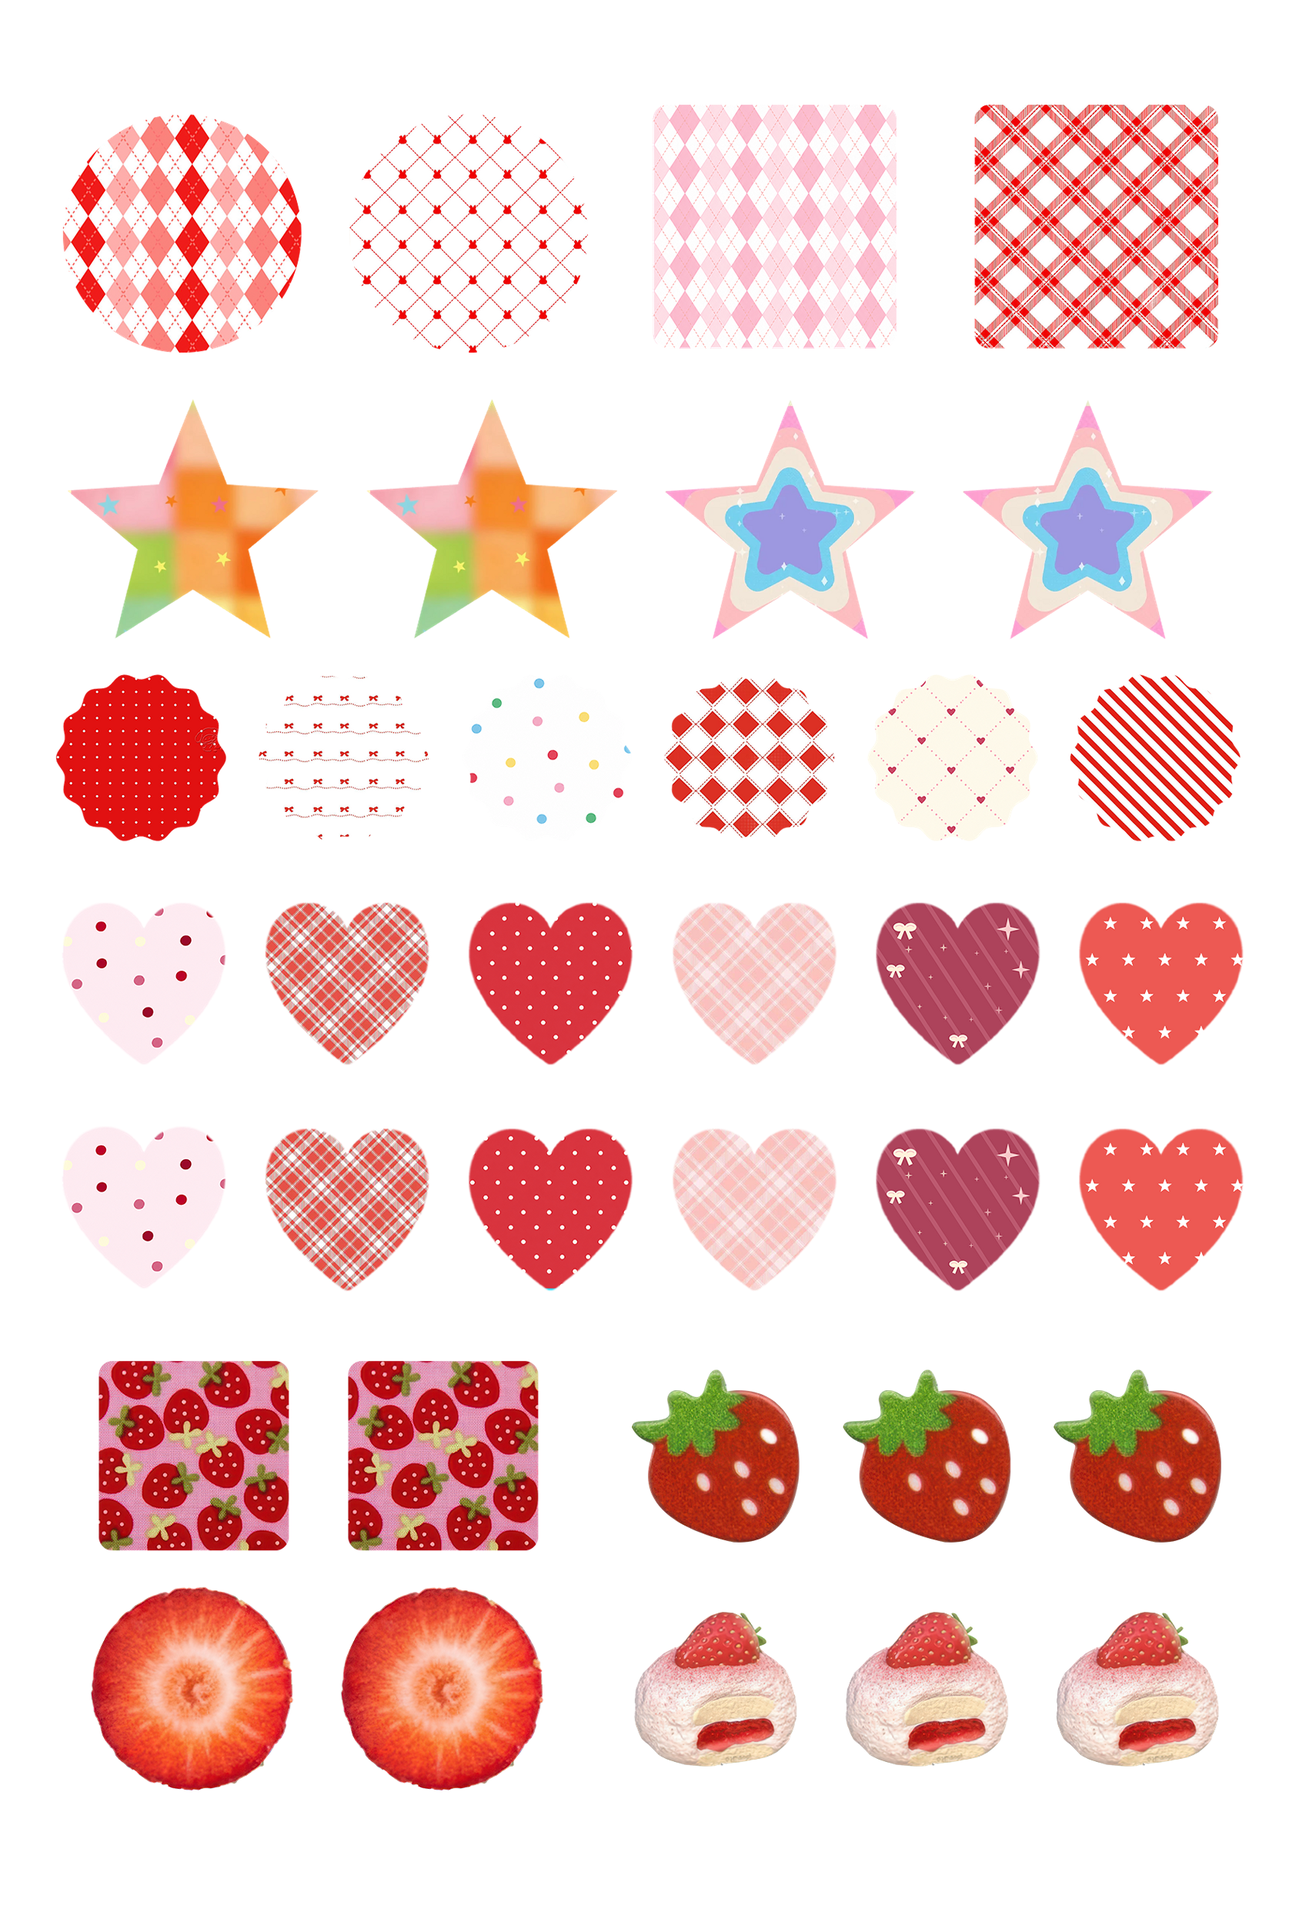
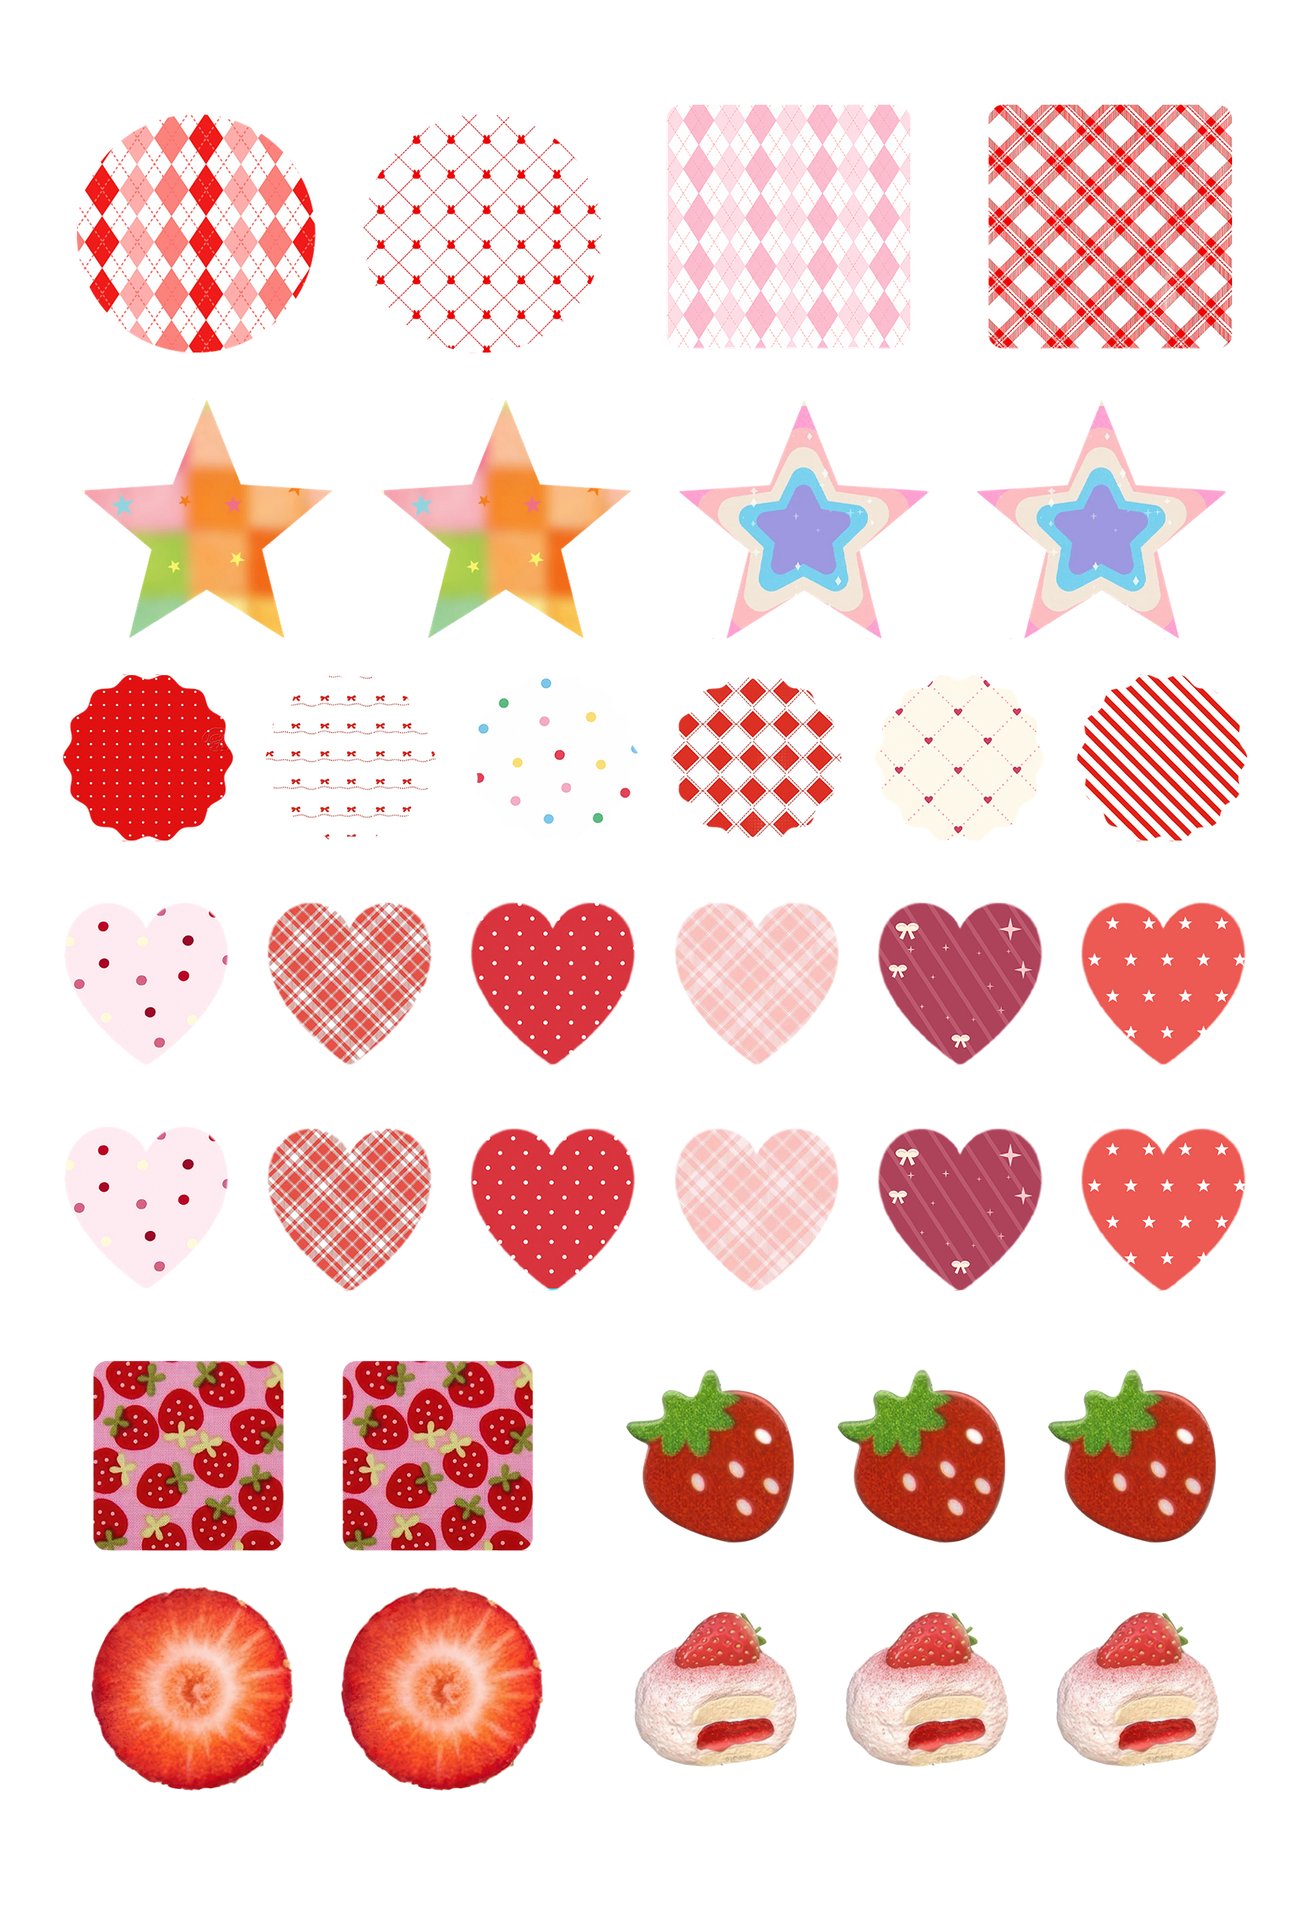
fix: 校准草莓模板照片框与图案位置
按底图透明轮廓调整照片框和选框，校准行居中，同步 Web 和 vagaga 内嵌模板并补充像素级回归测试。

diff --git a/web/src/services/heartStarStrawberry.test.ts b/web/src/services/heartStarStrawberry.test.ts
@@ -1,4 +1,5 @@
 import { readFileSync } from 'node:fs'
+import { inflateSync } from 'node:zlib'
 import { describe, expect, it } from 'vitest'
 import source from '../../public/embedded/heart-star/strawberry-template.js?raw'
 import backgroundSource from '../../public/embedded/heart-star/slot-background.js?raw'
@@ -13,10 +14,49 @@ function feature() {
   return scope.HeartStarStrawberry
 }
 
+function sheetBytes() {
+  const api = feature()
+  return readFileSync(new URL('../../public/embedded/heart-star/' + api.source.split('?')[0].replace('./', ''), import.meta.url))
+}
+
+// Decodes the base sheet as exported: 8-bit RGBA without interlacing.
+function sheetAlpha(bytes: Buffer) {
+  expect([bytes[24], bytes[25], bytes[28]]).toEqual([8, 6, 0])
+  const width = bytes.readUInt32BE(16), height = bytes.readUInt32BE(20)
+  const chunks: Buffer[] = []
+  for (let position = 8; position < bytes.length; position += 12 + bytes.readUInt32BE(position))
+    if (bytes.toString('ascii', position + 4, position + 8) === 'IDAT') chunks.push(bytes.subarray(position + 8, position + 8 + bytes.readUInt32BE(position)))
+  const raw = inflateSync(Buffer.concat(chunks)), stride = width * 4, pixels = Buffer.alloc(height * stride)
+  for (let y = 0; y < height; y++) {
+    const filter = raw[y * (stride + 1)]
+    for (let x = 0; x < stride; x++) {
+      const at = y * stride + x, a = x >= 4 ? pixels[at - 4] : 0, b = y ? pixels[at - stride] : 0
+      const c = x >= 4 && y ? pixels[at - stride - 4] : 0
+      let value = raw[y * (stride + 1) + 1 + x]
+      if (filter === 1) value += a
+      else if (filter === 2) value += b
+      else if (filter === 3) value += (a + b) >> 1
+      else if (filter === 4) {
+        const p = a + b - c, pa = Math.abs(p - a), pb = Math.abs(p - b), pc = Math.abs(p - c)
+        value += pa <= pb && pa <= pc ? a : pb <= pc ? b : c
+      }
+      pixels[at] = value & 255
+    }
+  }
+  return { width, height, alpha: (x: number, y: number) => pixels[y * stride + x * 4 + 3] }
+}
+
+// The sheet is decoded once per run; two tests read its pixels.
+let decoded: ReturnType<typeof sheetAlpha> | undefined
+function baseSheet() {
+  decoded ??= sheetAlpha(sheetBytes())
+  return decoded
+}
+
 describe('strawberry template', () => {
   it('loads the full-resolution PNG with 36 non-overlapping artwork and photo positions', () => {
     const api = feature(), cfg = api.build()
-    const bytes = readFileSync(new URL('../../public/embedded/heart-star/' + api.source.split('?')[0].replace('./', ''), import.meta.url))
+    const bytes = sheetBytes()
     expect([bytes.readUInt32BE(16), bytes.readUInt32BE(20)]).toEqual([cfg.w, cfg.h])
     expect([cfg.w, cfg.h, cfg.widthMm, cfg.heightMm]).toEqual([1701, 2480, 144, 210])
     expect(cfg.slots).toHaveLength(36)
@@ -56,7 +96,9 @@ describe('strawberry template', () => {
     const photo = { width: 100, height: 200 }, calls: any[] = [], area = cfg.slots[4].photoArea
     states[4] = { size: .62, dx: 10, dy: -5 }
     api.drawFittedPhoto({ drawImage: (...args: any[]) => calls.push(args) }, cfg, {}, states, 4, photo)
-    expect(calls[0].slice(1)).toEqual([area.x + 10 - area.h / 4, area.y - 5 - area.h / 2, area.h / 2, area.h])
+    // A 100 x 200 photo is limited by the area height: it becomes half as wide as the area is tall.
+    expect(calls[0].slice(1)).toEqual([expect.closeTo(area.x + 10 - area.h / 4), expect.closeTo(area.y - 5 - area.h / 2),
+      expect.closeTo(area.h / 2), expect.closeTo(area.h)])
   })
 
   it('centers every row with more than 5 mm on each side and keeps photo frames inside their artwork', () => {
@@ -75,6 +117,44 @@ describe('strawberry template', () => {
         expect(photo.x - photo.w / 2).toBeGreaterThanOrEqual(artwork.x)
         expect(photo.x + photo.w / 2).toBeLessThanOrEqual(artwork.x + artwork.w)
       }
+    }
+  })
+
+  it('keeps every photo frame inside its own artwork and centred on it, measured on the base image', () => {
+    const cfg = feature().build(), { width, height, alpha } = baseSheet()
+    // true when every pixel the rectangle touches is painted on the sheet
+    const painted = (left: number, top: number, right: number, bottom: number) => {
+      for (let y = Math.floor(top + 1e-9); y < Math.ceil(bottom - 1e-9); y++)
+        for (let x = Math.floor(left + 1e-9); x < Math.ceil(right - 1e-9); x++)
+          if (x < 0 || y < 0 || x >= width || y >= height || alpha(x, y) < 128) return false
+      return true
+    }
+    cfg.slots.forEach((slot: any, i: number) => {
+      const artwork = cfg.placements[i], photo = slot.photoArea
+      // Centre of area of the motif as it is actually painted on the sheet.
+      let sumX = 0, sumY = 0, count = 0
+      for (let y = Math.floor(artwork.y - 6); y < Math.ceil(artwork.y + artwork.h + 6); y++)
+        for (let x = Math.floor(artwork.x - 6); x < Math.ceil(artwork.x + artwork.w + 6); x++)
+          if (alpha(x, y) >= 128) { sumX += x + .5; sumY += y + .5; count++ }
+      expect(count, `slot ${i} artwork`).toBeGreaterThan(1000)
+      expect(Math.abs(photo.x - sumX / count), `slot ${i} horizontal centre`).toBeLessThanOrEqual(1.5)
+      expect(Math.abs(photo.y - sumY / count), `slot ${i} vertical centre`).toBeLessThanOrEqual(1.5)
+      // The editor draws a 4 px dashed selection frame 6% larger than the photo area.
+      // The dashed line, half its stroke width included, must stay on the artwork.
+      expect(painted(photo.x - photo.w * .53 - 2, photo.y - photo.h * .53 - 2, photo.x + photo.w * .53 + 2, photo.y + photo.h * .53 + 2), `slot ${i} frame`).toBe(true)
+    })
+  })
+
+  it('centres every row of the base image on the sheet', () => {
+    const cfg = feature().build(), { width, alpha } = baseSheet()
+    for (let row = 0; row < 7; row++) {
+      const boxes = cfg.placements.filter((_: any, i: number) => cfg.slots[i].row === row)
+      const top = Math.floor(Math.min(...boxes.map((box: any) => box.y)) - 6), bottom = Math.ceil(Math.max(...boxes.map((box: any) => box.y + box.h)) + 6)
+      let left = width, right = -1
+      for (let y = top; y < bottom; y++) for (let x = 0; x < width; x++) if (alpha(x, y) >= 128) { left = Math.min(left, x); right = Math.max(right, x) }
+      left = left as number; right = right as number
+      expect(Math.abs(left - (width - 1 - right)), `row ${row + 1} margins`).toBeLessThanOrEqual(1)
+      expect(left / width * cfg.widthMm, `row ${row + 1} margin`).toBeGreaterThan(5)
     }
   })
 

diff --git a/vagaga/public/embedded/heart-star/strawberry-template.js b/vagaga/public/embedded/heart-star/strawberry-template.js
@@ -3,23 +3,26 @@
 (() => {
   'use strict';
   const name = '草莓.png';
-  const source = './assets/strawberry-template.png?v=5';
+  const source = './assets/strawberry-template.png?v=6';
   function build() {
     // Each entry: artwork [left, top, width, height], photo [cx, cy, width, height].
     // Centers use the filled artwork silhouette, rounded to half a pixel.
     // This keeps hearts above their pointed tips and excludes texture holes.
+    // Sizes are the largest that keep the editor's dashed selection frame (6% larger
+    // than the photo area, stroke included) on the painted motif;
+    // heartStarStrawberry.test.ts checks both against the base image.
     const rows = [
       [
-        [[65, 91, 326, 326], [228, 254, 216, 232]],
-        [[457, 91, 326, 326], [620, 254, 216, 232]],
+        [[65, 91, 326, 326], [228, 254, 205, 219.5]],
+        [[457, 91, 326, 326], [620, 254, 205, 219.5]],
         [[872, 78, 333, 333], [1038.5, 244.5, 216, 232]],
         [[1312, 78, 333, 333], [1478.5, 244.5, 216, 232]],
       ],
       [
-        [[71, 480, 344, 330], [242.5, 661.5, 136, 144]],
-        [[480, 480, 344, 330], [651.5, 661.5, 136, 144]],
-        [[888, 481, 344, 329], [1059.5, 662.5, 136, 144]],
-        [[1295, 481, 344, 329], [1466.5, 662.5, 136, 144]],
+        [[71, 480, 344, 330], [242.5, 661.5, 109.5, 115.5]],
+        [[480, 480, 344, 330], [651.5, 661.5, 109.5, 115.5]],
+        [[888, 481, 344, 329], [1059.5, 662.5, 109.5, 115.5]],
+        [[1295, 481, 344, 329], [1466.5, 662.5, 109.5, 115.5]],
       ],
       [
         [[55, 856, 233, 229], [172, 971, 126, 134]],
@@ -30,20 +33,20 @@
         [[1442, 856, 234, 229], [1559, 971, 126, 134]],
       ],
       [
-        [[63, 1169, 225, 225], [176, 1264.5, 126, 134]],
-        [[341, 1169, 226, 225], [454, 1264.5, 126, 134]],
-        [[619, 1169, 226, 225], [732, 1264.5, 126, 134]],
-        [[898, 1169, 226, 225], [1011, 1264.5, 126, 134]],
-        [[1176, 1169, 226, 225], [1289, 1264.5, 126, 134]],
-        [[1454, 1169, 226, 225], [1567, 1264.5, 126, 134]],
+        [[63, 1169, 225, 225], [176, 1264.5, 103.5, 110.5]],
+        [[341, 1169, 226, 225], [454, 1264.5, 103.5, 110.5]],
+        [[619, 1169, 226, 225], [732, 1264.5, 103.5, 110.5]],
+        [[898, 1169, 226, 225], [1011, 1264.5, 103.5, 110.5]],
+        [[1176, 1169, 226, 225], [1289, 1264.5, 103.5, 110.5]],
+        [[1454, 1169, 226, 225], [1567, 1264.5, 103.5, 110.5]],
       ],
       [
-        [[63, 1478, 225, 224], [176, 1573.5, 126, 134]],
-        [[341, 1478, 226, 224], [454, 1573.5, 126, 134]],
-        [[619, 1478, 226, 224], [732, 1573.5, 126, 134]],
-        [[898, 1478, 226, 224], [1011, 1573.5, 126, 134]],
-        [[1176, 1478, 226, 224], [1289, 1573.5, 126, 134]],
-        [[1454, 1478, 226, 224], [1567, 1573.5, 126, 134]],
+        [[63, 1478, 225, 224], [176.5, 1571, 103.5, 110.5]],
+        [[341, 1478, 226, 224], [454, 1573.5, 103.5, 110.5]],
+        [[619, 1478, 226, 224], [732, 1573.5, 103.5, 110.5]],
+        [[898, 1478, 226, 224], [1011, 1573.5, 103.5, 110.5]],
+        [[1176, 1478, 226, 224], [1289, 1573.5, 103.5, 110.5]],
+        [[1454, 1478, 226, 224], [1567, 1573.5, 103.5, 110.5]],
       ],
       [
         [[114, 1796, 260, 260], [244, 1925.5, 224, 230]],
@@ -53,11 +56,11 @@
         [[1420, 1808, 229, 236], [1545.5, 1934, 126, 134]],
       ],
       [
-        [[103, 2104, 278, 281], [242, 2244.5, 192, 202]],
-        [[445, 2104, 278, 281], [584, 2244.5, 192, 202]],
-        [[846, 2138, 223, 213], [958.5, 2256, 126, 134]],
-        [[1135, 2138, 223, 213], [1247.5, 2256, 126, 134]],
-        [[1423, 2138, 223, 213], [1535.5, 2256, 126, 134]],
+        [[103, 2104, 278, 281], [242, 2244.5, 175.5, 184.5]],
+        [[445, 2104, 278, 281], [584, 2244.5, 175.5, 184.5]],
+        [[846, 2138, 223, 213], [958.5, 2256, 112, 119.5]],
+        [[1135, 2138, 223, 213], [1247.5, 2256, 112, 119.5]],
+        [[1423, 2138, 223, 213], [1535.5, 2256, 112, 119.5]],
       ],
     ];
     // The PNG includes both the row centering and the following sheet transform.

diff --git a/web/public/embedded/heart-star/strawberry-template.js b/web/public/embedded/heart-star/strawberry-template.js
@@ -3,23 +3,26 @@
 (() => {
   'use strict';
   const name = '草莓.png';
-  const source = './assets/strawberry-template.png?v=5';
+  const source = './assets/strawberry-template.png?v=6';
   function build() {
     // Each entry: artwork [left, top, width, height], photo [cx, cy, width, height].
     // Centers use the filled artwork silhouette, rounded to half a pixel.
     // This keeps hearts above their pointed tips and excludes texture holes.
+    // Sizes are the largest that keep the editor's dashed selection frame (6% larger
+    // than the photo area, stroke included) on the painted motif;
+    // heartStarStrawberry.test.ts checks both against the base image.
     const rows = [
       [
-        [[65, 91, 326, 326], [228, 254, 216, 232]],
-        [[457, 91, 326, 326], [620, 254, 216, 232]],
+        [[65, 91, 326, 326], [228, 254, 205, 219.5]],
+        [[457, 91, 326, 326], [620, 254, 205, 219.5]],
         [[872, 78, 333, 333], [1038.5, 244.5, 216, 232]],
         [[1312, 78, 333, 333], [1478.5, 244.5, 216, 232]],
       ],
       [
-        [[71, 480, 344, 330], [242.5, 661.5, 136, 144]],
-        [[480, 480, 344, 330], [651.5, 661.5, 136, 144]],
-        [[888, 481, 344, 329], [1059.5, 662.5, 136, 144]],
-        [[1295, 481, 344, 329], [1466.5, 662.5, 136, 144]],
+        [[71, 480, 344, 330], [242.5, 661.5, 109.5, 115.5]],
+        [[480, 480, 344, 330], [651.5, 661.5, 109.5, 115.5]],
+        [[888, 481, 344, 329], [1059.5, 662.5, 109.5, 115.5]],
+        [[1295, 481, 344, 329], [1466.5, 662.5, 109.5, 115.5]],
       ],
       [
         [[55, 856, 233, 229], [172, 971, 126, 134]],
@@ -30,20 +33,20 @@
         [[1442, 856, 234, 229], [1559, 971, 126, 134]],
       ],
       [
-        [[63, 1169, 225, 225], [176, 1264.5, 126, 134]],
-        [[341, 1169, 226, 225], [454, 1264.5, 126, 134]],
-        [[619, 1169, 226, 225], [732, 1264.5, 126, 134]],
-        [[898, 1169, 226, 225], [1011, 1264.5, 126, 134]],
-        [[1176, 1169, 226, 225], [1289, 1264.5, 126, 134]],
-        [[1454, 1169, 226, 225], [1567, 1264.5, 126, 134]],
+        [[63, 1169, 225, 225], [176, 1264.5, 103.5, 110.5]],
+        [[341, 1169, 226, 225], [454, 1264.5, 103.5, 110.5]],
+        [[619, 1169, 226, 225], [732, 1264.5, 103.5, 110.5]],
+        [[898, 1169, 226, 225], [1011, 1264.5, 103.5, 110.5]],
+        [[1176, 1169, 226, 225], [1289, 1264.5, 103.5, 110.5]],
+        [[1454, 1169, 226, 225], [1567, 1264.5, 103.5, 110.5]],
       ],
       [
-        [[63, 1478, 225, 224], [176, 1573.5, 126, 134]],
-        [[341, 1478, 226, 224], [454, 1573.5, 126, 134]],
-        [[619, 1478, 226, 224], [732, 1573.5, 126, 134]],
-        [[898, 1478, 226, 224], [1011, 1573.5, 126, 134]],
-        [[1176, 1478, 226, 224], [1289, 1573.5, 126, 134]],
-        [[1454, 1478, 226, 224], [1567, 1573.5, 126, 134]],
+        [[63, 1478, 225, 224], [176.5, 1571, 103.5, 110.5]],
+        [[341, 1478, 226, 224], [454, 1573.5, 103.5, 110.5]],
+        [[619, 1478, 226, 224], [732, 1573.5, 103.5, 110.5]],
+        [[898, 1478, 226, 224], [1011, 1573.5, 103.5, 110.5]],
+        [[1176, 1478, 226, 224], [1289, 1573.5, 103.5, 110.5]],
+        [[1454, 1478, 226, 224], [1567, 1573.5, 103.5, 110.5]],
       ],
       [
         [[114, 1796, 260, 260], [244, 1925.5, 224, 230]],
@@ -53,11 +56,11 @@
         [[1420, 1808, 229, 236], [1545.5, 1934, 126, 134]],
       ],
       [
-        [[103, 2104, 278, 281], [242, 2244.5, 192, 202]],
-        [[445, 2104, 278, 281], [584, 2244.5, 192, 202]],
-        [[846, 2138, 223, 213], [958.5, 2256, 126, 134]],
-        [[1135, 2138, 223, 213], [1247.5, 2256, 126, 134]],
-        [[1423, 2138, 223, 213], [1535.5, 2256, 126, 134]],
+        [[103, 2104, 278, 281], [242, 2244.5, 175.5, 184.5]],
+        [[445, 2104, 278, 281], [584, 2244.5, 175.5, 184.5]],
+        [[846, 2138, 223, 213], [958.5, 2256, 112, 119.5]],
+        [[1135, 2138, 223, 213], [1247.5, 2256, 112, 119.5]],
+        [[1423, 2138, 223, 213], [1535.5, 2256, 112, 119.5]],
       ],
     ];
     // The PNG includes both the row centering and the following sheet transform.

diff --git a/vagaga/public/embedded/heart-star/index.html b/vagaga/public/embedded/heart-star/index.html
@@ -349,7 +349,7 @@ body{height:100vh;height:100dvh;display:flex;flex-direction:column;overflow:hidd
 <script src="./candy-motifs.js?v=candy-ime-2"></script>
 <script src="./party-motifs.js?v=party-1"></script>
 <script src="./heart-preset.js?v=strawberry-1"></script>
-<script src="./strawberry-template.js?v=6"></script>
+<script src="./strawberry-template.js?v=7"></script>
 <script src="./christmas-template.js?v=1"></script>
 <script src="./template-link.js?v=1"></script>
 <script src="./cloud-snapshot.js?v=cloud-1"></script>

diff --git a/web/public/embedded/heart-star/index.html b/web/public/embedded/heart-star/index.html
@@ -281,7 +281,7 @@ body{height:100vh;height:100dvh;display:flex;flex-direction:column;overflow:hidd
 <script src="./candy-motifs.js?v=candy-ime-2"></script>
 <script src="./party-motifs.js?v=party-1"></script>
 <script src="./heart-preset.js?v=strawberry-1"></script>
-<script src="./strawberry-template.js?v=6"></script>
+<script src="./strawberry-template.js?v=7"></script>
 <script src="./christmas-template.js?v=1"></script>
 <script src="./template-link.js?v=1"></script>
 <script src="./cloud-snapshot.js?v=cloud-1"></script>

diff --git a/docs/strawberry-template.md b/docs/strawberry-template.md
@@ -8,6 +8,7 @@ Web 模板选择器中的「草莓款 · A5 竖版」，模板 ID 为 `草莓.pn
 - 7 排、36 个照片位置，每排数量依次为 4、4、6、6、6、5、5。
 - 当前使用用户提供的无头像底图，已替换临时示例图；未上传照片时仅显示图案。
 - 照片中心按无头像底图的填实轮廓重新标定，排除纹理中的透明孔洞；爱心、草莓及蛋糕按主体面积中心居中。照片与图案同步缩放，支持多选、循环填图、移动、缩放、裁剪、PNG 导出与共享作品保存。
+- 每个照片框都以图案的面积中心为中心，尺寸取能让编辑器虚线选框（比照片区大 6%，含 4 像素线宽）完全落在图案内的最大值，照片框和选框都不会超出图案。`heartStarStrawberry.test.ts` 会解码底图逐个校验这条规则和每排居中；底图与标定不一致时测试失败。
 - 每排左右留白相等；默认 144 mm 宽、计入透明抗锯齿边缘时，从上到下每侧约为 8.38、8.89、6.77、6.94、6.94、10.16、9.90 mm，全部超过 5 mm。实际导出存在像素取整和插值，300 / 600 DPI 的实测最小每侧留白分别约为 6.77 / 6.73 mm，左右最多相差 1 像素。
 - 这张完整底图暂未拆分为可互换的图案素材。
 
@@ -19,10 +20,11 @@ Web 模板选择器中的「草莓款 · A5 竖版」，模板 ID 为 `草莓.pn
    居中后的整张图以原画布中心 `(874, 1240)` 缩放，再将中心放到新画布的 `(850.5, 1240)`；
    源坐标缩放率为 X = `0.95 × 148 / 144 × 1701 / 1748`、Y = `0.95`，确保打印时两个方向都缩小 5%。
    插值使用预乘透明度，保留透明边缘；不要重复缩放已处理的 PNG。
-2. 在 `strawberry-template.js` 中递增 `source` 的 `?v=` 版本（当前为 `v=4`），
+2. 在 `strawberry-template.js` 中递增 `source` 的 `?v=` 版本（当前为 `v=6`），
    同时递增 `index.html` 中该脚本的版本，确保浏览器加载更新后的资源。
 3. 照片及图案的原始位置位于 `strawberry-template.js` 的 `rows` 中，
-   `build()` 对图案外框、照片中心及尺寸应用与底图相同的居中和缩放；更新底图时同步校准。
+   `build()` 对图案外框、照片中心及尺寸应用与底图相同的居中和缩放；更新底图时同步校准，
+   并运行 `heartStarStrawberry.test.ts`，图案位置或尺寸与标定不一致时测试会直接失败。
 
 共享作品会保存自己的底图与位置快照，更新内置底图不会改变旧作品。
 本地接入不等于线上发布，线上使用需按现有 Web 发布流程部署。
